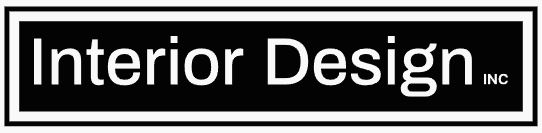
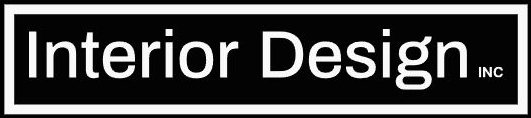
x

diff --git a/src/CSS/Navbar.css b/src/CSS/Navbar.css
@@ -28,28 +28,26 @@
    margin: 0 10px;
 }
 
+.link {
+   padding: 10px;
+}
 .link:hover {
    background-color: #1b212a;
    color: white;
    transform: translateY(-5px);
    box-shadow: rgb(38, 57, 77) 0px 20px 30px -10px;
-}
-
-.link {
-   padding: 10px;
-}
-
-.link:hover {
    cursor: pointer;
 }
 
 .logo img {
    width: 150px;
-   height: 40px;
    object-fit: contain;
-   transition: all 1s;
+   transition: all 0.4s;
 }
-
+.logo img:hover {
+   transform: scale(1.1);
+   box-shadow: rgb(38, 57, 77) 0px 20px 30px -10px;
+}
 .burger-menu {
    display: none;
    cursor: pointer;

diff --git a/src/App.css b/src/App.css
@@ -4,13 +4,7 @@
    box-sizing: border-box;
    font-family: "Segoe UI", Tahoma, Geneva, Verdana, sans-serif;
 }
-img {
-   -webkit-user-drag: none;
-   user-select: none;
-   -moz-user-select: none;
-   -webkit-user-select: none;
-   -ms-user-select: none;
-}
+
 body {
    background-color: white;
    font-family: sans-serif;
@@ -32,7 +26,6 @@ body {
    text-align: center;
    position: relative;
    overflow: hidden;
-   margin-top: 30px;
 }
 
 .main img {

diff --git a/src/components/Navbar.jsx b/src/components/Navbar.jsx
@@ -1,7 +1,7 @@
 // Import necessary dependencies
 import React, { useState } from "react";
 import { Link } from "react-router-dom";
-import Logo from "./Capture.JPG";
+import Logo from "./Capture.jpg";
 import Button from "../ReusableComponents/Button";
 import "../CSS/Navbar.css";
 
